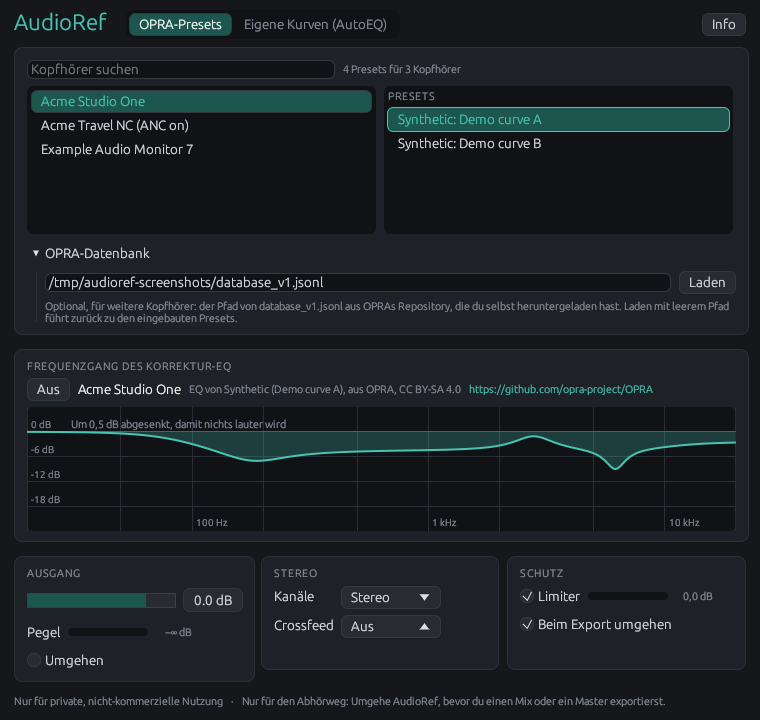
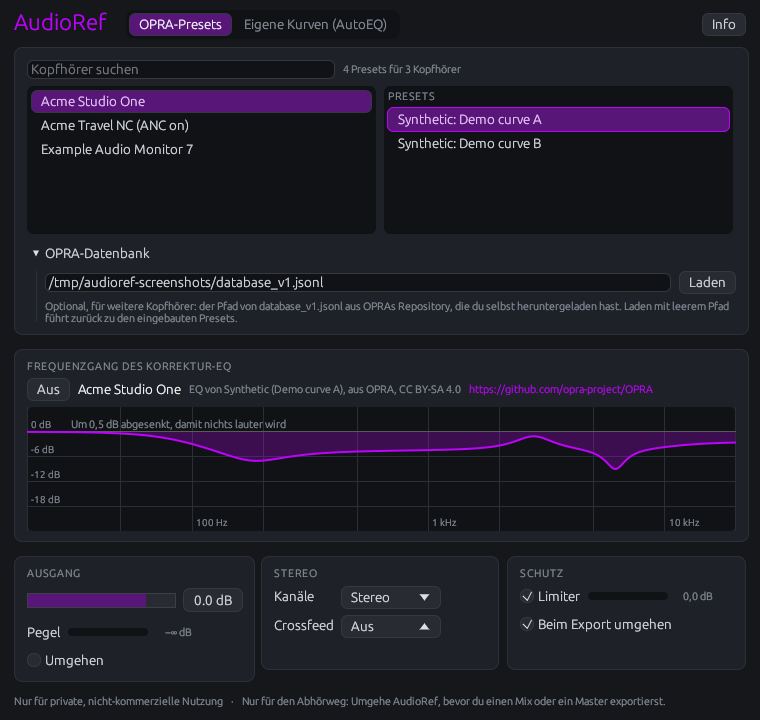
Make the accent bright purple (#BE03FD)
Claude-Session: https://claude.ai/code/session_01LTkkJNM9YeBc23r1HKb9qa

diff --git a/crates/audioref/src/theme.rs b/crates/audioref/src/theme.rs
@@ -12,10 +12,10 @@ pub const CARD: Color32 = Color32::from_rgb(30, 33, 39);
 pub const CARD_EDGE: Color32 = Color32::from_rgb(44, 48, 57);
 /// The background of fields, lists and the curve.
 pub const DEEP: Color32 = Color32::from_rgb(16, 18, 21);
-/// The color of what is chosen or active: the curve, the selection, links.
-pub const ACCENT: Color32 = Color32::from_rgb(72, 196, 178);
+/// The color of what is chosen or active: the curve, the selection, links. Bright purple, #BE03FD.
+pub const ACCENT: Color32 = Color32::from_rgb(190, 3, 253);
 /// The accent, dimmed, for the area under the curve and the selection behind text.
-pub const ACCENT_DIM: Color32 = Color32::from_rgba_premultiplied(18, 49, 45, 64);
+pub const ACCENT_DIM: Color32 = Color32::from_rgba_premultiplied(48, 1, 64, 64);
 /// Text.
 pub const TEXT: Color32 = Color32::from_rgb(220, 224, 230);
 /// Text of less weight: notes, units, labels of the axes.
@@ -73,8 +73,8 @@ pub fn apply(ctx: &egui::Context) {
     visuals.hyperlink_color = ACCENT;
     visuals.warn_fg_color = WARM;
     visuals.error_fg_color = HOT;
-    visuals.selection.bg_fill = Color32::from_rgb(28, 86, 78);
-    visuals.selection.stroke = Stroke::new(1.0_f32, ACCENT);
+    visuals.selection.bg_fill = Color32::from_rgb(88, 22, 120);
+    visuals.selection.stroke = Stroke::new(1.0_f32, Color32::from_rgb(238, 204, 255));
     visuals.collapsing_header_frame = false;
     let widgets = &mut visuals.widgets;
     let radius = CornerRadius::same(RADIUS);

diff --git a/CHANGELOG.md b/CHANGELOG.md
@@ -10,7 +10,7 @@ All changes users of AudioRef can notice are listed here. The format follows [Ke
 - Built-in EQ presets from OPRA for the Bose QC25, the Sony WH-1000XM4 and the AKG K240 Studio, in all their modes, by oratory1990 and AutoEQ: these headphones work without a download. Loading with an empty path goes back to them.
 - Headphone correction with OPRA's EQ presets: for other headphones, load OPRA's `database_v1.jsonl`, which you download yourself, search for your headphones and pick a preset, see [Using AudioRef](README.md#using-audioref). The filters follow the presets closely up to the highest frequencies, at every sample rate from 44.1 to 192 kHz, with no latency.
 - Automatic headroom: if a preset boosts some frequencies, AudioRef lowers its level by as much, so the correction never makes the signal louder.
-- A window, in English and German, in a dark look with a teal accent: tabs for OPRA's presets and your own curves, the search, the presets of the chosen headphones, OPRA's database in a section that folds away, the frequency response of the correction EQ with the preset's author and a link to OPRA, the parameters in three groups (output, stereo, protection), and the notices. Rest the pointer on the curve to read the level at that frequency.
+- A window, in English and German, in a dark look with a bright purple accent: tabs for OPRA's presets and your own curves, the search, the presets of the chosen headphones, OPRA's database in a section that folds away, the frequency response of the correction EQ with the preset's author and a link to OPRA, the parameters in three groups (output, stereo, protection), and the notices. Rest the pointer on the curve to read the level at that frequency.
 - The project saves the chosen preset, so it opens with the same correction on a computer without OPRA's file, and the window shows its headphones and the preset selected. Changing the preset fades over 20 ms.
 - An output level from −24 to +6 dB and a bypass. Changes of both fade over 20 ms, so they don't click.
 - Parameter names in English and German, in the language of the operating system.
